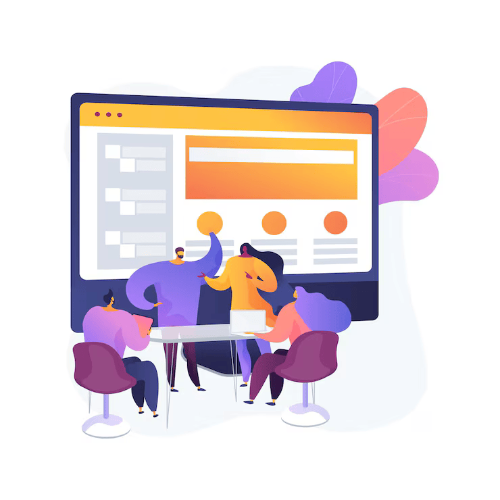
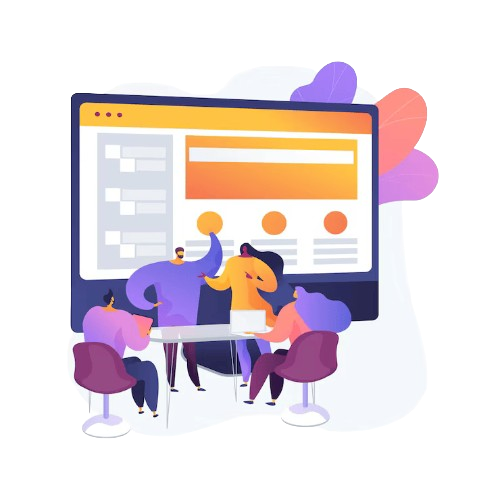
login apges done for both learner and instructors

diff --git a/Frontend/src/pages/learners/LearnerSignUp.jsx b/Frontend/src/pages/learners/LearnerSignUp.jsx
@@ -1,6 +1,8 @@
 import { useState } from "react";
-import { ArrowLeft, Eye, EyeOff, UserRound, Mail, Lock } from "lucide-react";
+import { ArrowLeft, Eye, EyeOff, UserRound, Mail, Lock} from "lucide-react";
 import { useNavigate } from "react-router-dom";
+import { motion } from "framer-motion";
+import learnerImg from "../../assets/learner-bg.png";
 
 const LearnerSignUp = () => {
   const [isLogin, setIsLogin] = useState(true);
@@ -15,83 +17,127 @@ const LearnerSignUp = () => {
     navigate("/learner-dashboard");
   };
 
+  const handleGoogleSignIn = () => {
+    window.open("https://accounts.google.com/signin", "_blank");
+  };
+
   return (
-    <div className="flex items-center justify-center min-h-screen bg-gray-100 relative">
+    <div className="flex flex-col md:flex-row min-h-screen bg-gray-50">
       
-      <button onClick={() => navigate("/")}
-        className="absolute top-6 left-6 p-2 rounded-full bg-white shadow hover:bg-green-200 transition">
+      <button
+        onClick={() => navigate("/")}
+        className="absolute top-6 left-6 p-2 rounded-full bg-white shadow hover:bg-green-100 transition">
         <ArrowLeft size={22} />
       </button>
 
-      <div className="bg-white p-8 rounded-2xl shadow-lg w-80 sm:w-96">
-        <h2 className="text-2xl font-semibold mb-6 text-center">
-          <span className="text-green-600 font-bold">Learner </span>
-          {isLogin ? "Login" : "Sign Up"}
-        </h2>
+      <motion.div
+        initial={{ opacity: 0, x: -50 }}
+        animate={{ opacity: 1, x: 0 }}
+        transition={{ duration: 0.6 }}
+        className="hidden md:flex w-1/2 bg-gradient-to-br from-green-100 via-green-200 to-green-300 items-center justify-center p-10">
+        <img
+          src={learnerImg}
+          alt="Learner"
+          className="w-4/5 max-w-md rounded-3xl shadow-2xl"/>
+      </motion.div>
 
-        <form onSubmit={handleSubmit} className="flex flex-col gap-4">
-          {!isLogin && (
-            <div className="flex items-center border rounded px-3 py-2">
-              <UserRound className="text-gray-400 mr-2" size={18} />
+      <motion.div
+        initial={{ opacity: 0, x: 50 }}
+        animate={{ opacity: 1, x: 0 }}
+        transition={{ duration: 0.6 }}
+        className="flex-1 flex items-center justify-center p-6">
+        <div className="bg-white rounded-2xl shadow-lg p-8 w-full max-w-md">
+          <h2 className="text-3xl font-bold mb-6 text-center">
+            <span className="text-green-600">
+              {isLogin ? "Learner Login" : "Learner Sign Up"}
+            </span>
+          </h2>
+
+          <form onSubmit={handleSubmit} className="flex flex-col gap-4">
+            {!isLogin && (
+              <div className="flex items-center border rounded-lg px-3 py-2 bg-gray-50">
+                <UserRound className="text-gray-400 mr-2" size={18} />
+                <input
+                  type="text"
+                  placeholder="Full Name"
+                  className="w-full bg-transparent focus:outline-none"
+                  required/>
+              </div>
+            )}
+
+            <div className="flex items-center border rounded-lg px-3 py-2 bg-gray-50">
+              <Mail className="text-gray-400 mr-2" size={18} />
               <input
-                type="text"
-                placeholder="Full Name"
-                className="w-full focus:outline-none"
+                type="email"
+                placeholder="[email redacted]"
+                className="w-full bg-transparent focus:outline-none"
                 required/>
             </div>
-          )}
 
-          <div className="flex items-center border rounded px-3 py-2">
-            <Mail className="text-gray-400 mr-2" size={18} />
-            <input
-              type="email"
-              placeholder="[email redacted]"
-              className="w-full focus:outline-none"
-              required/>
-          </div>
+            <div className="flex items-center border rounded-lg px-3 py-2 bg-gray-50">
+              <Lock className="text-gray-400 mr-2" size={18} />
+              <input
+                type={showPassword ? "text" : "password"}
+                placeholder="Password"
+                className="w-full bg-transparent focus:outline-none"
+                required/>
+              <button
+                type="button"
+                onClick={togglePassword}
+                className="text-gray-500 hover:text-green-600">
+                {showPassword ? <EyeOff size={20} /> : <Eye size={20} />}
+              </button>
+            </div>
 
-          <div className="flex items-center border rounded px-3 py-2">
-            <Lock className="text-gray-400 mr-2" size={18} />
-            <input type={showPassword ? "text" : "password"}
-              placeholder="Password"
-              className="w-full focus:outline-none"
-              required/>
-            <button type="button"
-              onClick={togglePassword}
-              className="text-gray-500 hover:text-green-600 focus:outline-none">
-              {showPassword ? <EyeOff size={20} /> : <Eye size={20} />}
+            <button
+              type="submit"
+              className="bg-green-500 text-white py-2 rounded-full hover:bg-green-600 transition-colors font-medium">
+              {isLogin ? "Login" : "Sign Up"}
             </button>
-          </div>
 
-          <button
-            type="submit"
-            className="bg-green-500 text-white py-2 rounded-full hover:bg-green-700 transition-colors">
-            {isLogin ? "Login" : "Sign Up"}
-          </button>
-        </form>
+            <div className="flex items-center my-3">
+              <hr className="flex-grow border-gray-300" />
+              <span className="px-3 text-sm text-gray-500">or</span>
+              <hr className="flex-grow border-gray-300" />
+            </div>
 
-        <p className="mt-4 text-sm text-center text-gray-600">
-          {isLogin ? (
-            <>
-              Don't have an account?{" "}
-              <span
-                onClick={toggleMode}
-                className="text-green-600 hover:underline cursor-pointer">
-                Sign Up
+            <button
+              type="button"
+              onClick={handleGoogleSignIn}
+              className="flex items-center justify-center gap-3 bg-white border border-gray-300 py-2 rounded-full shadow-sm hover:bg-gray-100 transition" >
+              <img
+                src="https://www.svgrepo.com/show/355037/google.svg"
+                alt="Google"
+                className="w-5 h-5"/>
+              <span className="text-gray-700 font-medium">
+                Sign in with Google
               </span>
-            </>
-          ) : (
-            <>
-              Already have an account?{" "}
-              <span
-                onClick={toggleMode}
-                className="text-green-600 hover:underline cursor-pointer">
-                Login
-              </span>
-            </>
-          )}
-        </p>
-      </div>
+            </button>
+          </form>
+
+          <p className="mt-4 text-sm text-center text-gray-600">
+            {isLogin ? (
+              <>
+                Don't have an account?{" "}
+                <span
+                  onClick={toggleMode}
+                  className="text-green-600 hover:underline cursor-pointer">
+                  Sign Up
+                </span>
+              </>
+            ) : (
+              <>
+                Already have an account?{" "}
+                <span
+                  onClick={toggleMode}
+                  className="text-green-600 hover:underline cursor-pointer">
+                  Login
+                </span>
+              </>
+            )}
+          </p>
+        </div>
+      </motion.div>
     </div>
   );
 };

diff --git a/Frontend/src/pages/instructors/InstructorSignUp.jsx b/Frontend/src/pages/instructors/InstructorSignUp.jsx
@@ -1,8 +1,15 @@
 import { useState } from "react";
-import { ArrowLeft, Eye, EyeOff, User, UserRound, Mail, Lock} from "lucide-react";
+import {
+  ArrowLeft,
+  Eye,
+  EyeOff,
+  User,
+  UserRound,
+  Mail,
+  Lock,
+} from "lucide-react";
 import { useNavigate } from "react-router-dom";
 import instructorImg from "../../assets/instructor-bg.png";
-
 
 const InstructorSignUp = () => {
   const [isLogin, setIsLogin] = useState(true);
@@ -41,19 +48,19 @@ const InstructorSignUp = () => {
   };
 
   return (
-    <div className="flex min-h-screen bg-white">
-
-       <button
-          onClick={() => navigate("/")}
-          className="absolute top-6 left-6 p-2 rounded-full bg-gray-50 shadow hover:bg-blue-200 transition">
-          <ArrowLeft size={22} />
+    <div className="flex min-h-screen bg-blue-100 relative">
+    
+      <button
+        onClick={() => navigate("/")}
+        className="absolute top-6 left-6 p-2 rounded-full bg-gray-50 shadow hover:bg-blue-100 transition">
+        <ArrowLeft size={22} />
       </button>
-      
-      <div className="hidden md:flex w-1/2 bg-white justify-center items-center">
+
+      <div className="hidden md:flex w-1/2 bg-blue-600 justify-center items-center">
         <img
           src={instructorImg || "https://images.unsplash.com/photo-1607746882042-944635dfe10e?w=800"}
           alt="Instructor"
-          className="w-3/4 h-auto object-contain rounded-2xl"  // 👈 smaller and centered
+          className="w-3/4 h-auto object-contain rounded-2xl drop-shadow-xl"
           onError={(e) => {
             e.target.onerror = null;
             e.target.src =
@@ -62,7 +69,6 @@ const InstructorSignUp = () => {
       </div>
 
       <div className="flex flex-col justify-center items-center w-full md:w-1/2 bg-white relative p-6 sm:p-10">
-
         <div className="w-full max-w-md bg-white rounded-2xl p-8 shadow-lg border border-gray-100">
           <h2 className="text-3xl font-semibold mb-6 text-center text-gray-800">
             <span className="text-blue-600 font-bold">Instructor </span>
@@ -150,11 +156,10 @@ const InstructorSignUp = () => {
           <p className="mt-5 text-sm text-center text-gray-600">
             {isLogin ? (
               <>
-                Don’t have an account?{" "}
+                Don't have an account?{" "}
                 <span
                   onClick={toggleMode}
-                  className="text-blue-600 hover:underline cursor-pointer"
-                >
+                  className="text-blue-600 hover:underline cursor-pointer">
                   Sign Up
                 </span>
               </>
@@ -163,8 +168,7 @@ const InstructorSignUp = () => {
                 Already have an account?{" "}
                 <span
                   onClick={toggleMode}
-                  className="text-blue-600 hover:underline cursor-pointer"
-                >
+                  className="text-blue-600 hover:underline cursor-pointer">
                   Login
                 </span>
               </>